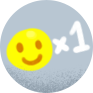
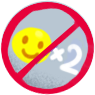
Fix joke assembler rule hints

diff --git a/Scripts/JokeAssembler.cs b/Scripts/JokeAssembler.cs
@@ -29,7 +29,7 @@ public class JokeAssembler : Node2D
 	[Export] private int MaxSequenceLength = 5;
 	[Export] private PackedScene Tip;
 	[Export] private float TipOffset = 700f;
-	[Export] private float FadeoutTime = 3f;
+	[Export] private float JokeBlockTime = 3f;
 
 	private Node2D BackGround;
 	private RuleHint MismatchRuleHint;
@@ -103,8 +103,11 @@ public class JokeAssembler : Node2D
 		BasePlace = GetNode<Node2D>(BasePlacePath).Position;
 		BackGround = GetNode<Node2D>("Background");
 		MismatchRuleHint = GetNode<RuleHint>("%MismatchRuleHint");
+		MismatchRuleHint.JokeBlockTime = JokeBlockTime;
 		SpoilerRuleHint = GetNode<RuleHint>("%SpoilerRuleHint");
+		SpoilerRuleHint.JokeBlockTime = JokeBlockTime;
 		RepeatRuleHint = GetNode<RuleHint>("%RepeatRuleHint");
+		RepeatRuleHint.JokeBlockTime = JokeBlockTime;
 	}
 
 	public override void _Process(float delta)
@@ -120,7 +123,7 @@ public class JokeAssembler : Node2D
 		{
 			ElementWithTransition Focus = Elements[idx];
 			Vector2 NewPos = Focus.StartLocation;
-			NewPos = NewPos.LinearInterpolate(Focus.DesiredLocation, TransitionProgress);
+			NewPos = NewPos.LinearInterpolate(Focus.DesiredLocation, Mathf.Clamp(TransitionProgress,0, 1));
 			Focus.Element.Position = NewPos;
 		}
 		
@@ -213,7 +216,7 @@ public class JokeAssembler : Node2D
 					break;
 			}
 
-			tip.SetText(tipText, tipColor, FadeoutTime);
+			tip.SetText(tipText, tipColor, JokeBlockTime);
 		}
 
 		if (AssembledJoke.IsFailed())
@@ -246,7 +249,7 @@ public class JokeAssembler : Node2D
 			// newModulate.a = alpha;
 			// Modulate = newModulate;
 			
-			if (localTime >= FadeoutTime)
+			if (localTime >= JokeBlockTime)
 			{
 				(sender as Timer).Stop();
 				(sender as Timer).Dispose();
@@ -255,7 +258,7 @@ public class JokeAssembler : Node2D
 		};
 		fadeOutTimer.Start();
 		
-		Timer pushDelay = new Timer(FadeoutTime / 2 * 1000);
+		Timer pushDelay = new Timer(JokeBlockTime / 2 * 1000);
 		pushDelay.AutoReset = false;
 		pushDelay.Elapsed += (object sender, ElapsedEventArgs e) => 
 		{

diff --git a/Scripts/RuleHint.cs b/Scripts/RuleHint.cs
@@ -5,7 +5,7 @@ namespace GGJ24.Scripts
 {
 	public class RuleHint : Sprite
 	{
-		[Export] private float TriggerTime = 1;
+		public float JokeBlockTime;
 
 		private float TimeLeft;
 		// Called when the node enters the scene tree for the first time.
@@ -16,7 +16,7 @@ namespace GGJ24.Scripts
 		public void Trigger()
 		{
 			Modulate = Colors.Red;
-			TimeLeft = TriggerTime;
+			TimeLeft = JokeBlockTime;
 			SetProcess(true);
 		}
 
@@ -32,7 +32,7 @@ namespace GGJ24.Scripts
 			}
 
 			GD.Print(TimeLeft * 10);
-			if (Math.Floor(TimeLeft * 10) % 2 == 0)
+			if (Math.Floor(TimeLeft * 10) % 3 == 0)
 			{
 				Modulate = Colors.Red;
 			}
